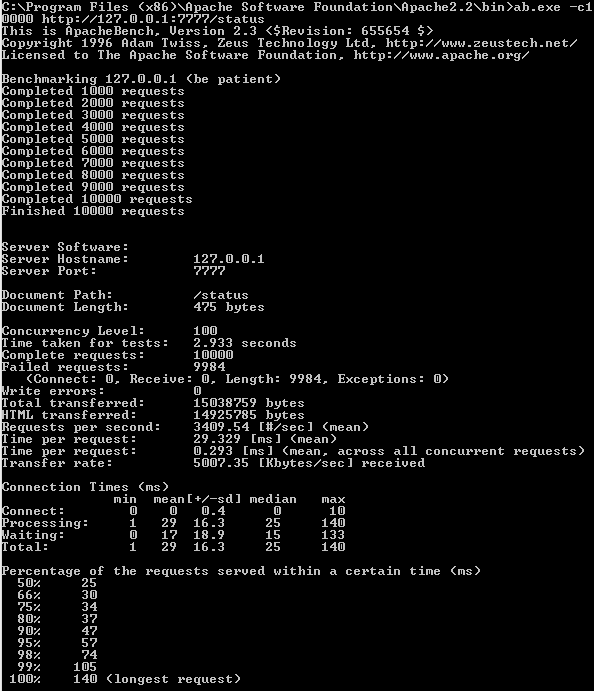
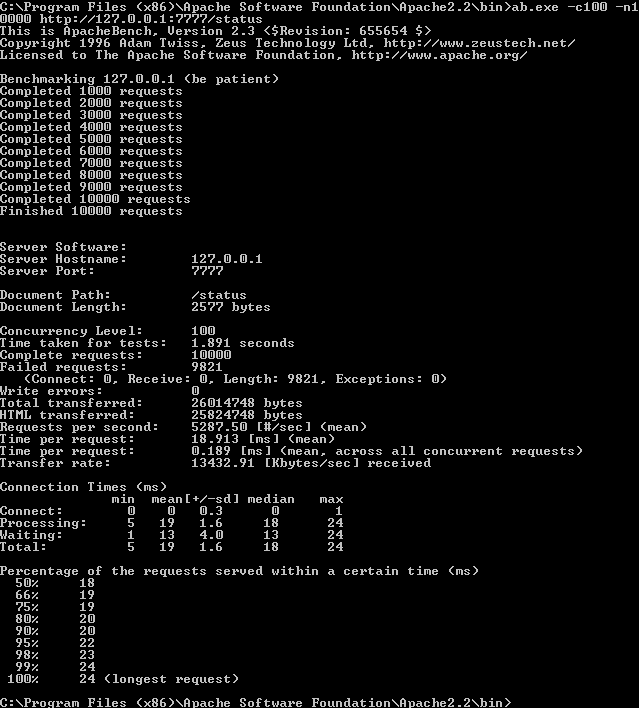
Изменил просчет скорости. С System.currentTimeMillis() на System.nanoTime(), так как милисекунды слишком долгие =) И приложил новые скриншоты.

Changed region(s): [[0.0, 0.0, 1.0, 1.0], [0.7576, 0.8205, 0.7879, 0.8509]]

diff --git a/src/main/java/com/korostel/nettyhttpserver/webserver/HttpServerHandler.java b/src/main/java/com/korostel/nettyhttpserver/webserver/HttpServerHandler.java
@@ -28,7 +28,7 @@ public class HttpServerHandler extends ChannelInboundHandlerAdapter {
 
     @Override
     public void channelActive(ChannelHandlerContext ctx) throws Exception {
-        speed = System.currentTimeMillis();
+        speed = System.nanoTime();
 
         currentIP.setIp(ip);
         HttpServerInitializer.connectionsInfo.newConnection(currentIP);
@@ -54,10 +54,16 @@ public class HttpServerHandler extends ChannelInboundHandlerAdapter {
 
     @Override
     public void channelReadComplete(ChannelHandlerContext ctx) throws Exception {
-        speed = (System.currentTimeMillis() - speed) / 1000;
+        speed = (System.nanoTime() - speed) / 1000000000.0;
+        System.out.println("speed first = " + speed);
         speed = (receivedBytes + sentBytes) / speed;
+        System.out.println("received bytes = " + receivedBytes);
+        System.out.println("sent bytes = " + sentBytes);
+        System.out.println("speed = " + speed);
 
         speed = new BigDecimal(speed).setScale(2, RoundingMode.UP).doubleValue();
+
+        System.out.println("speed rounded = " + speed);
 
         currentIP.setUri(uri);
         currentIP.setSentBytes(sentBytes);
